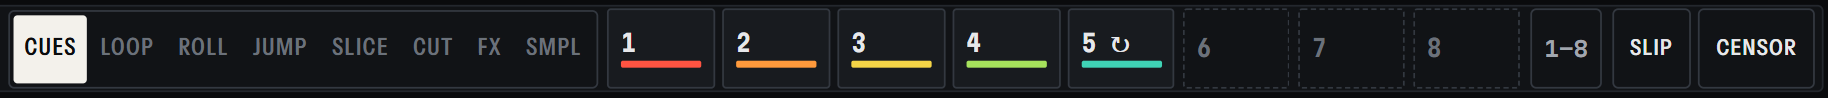
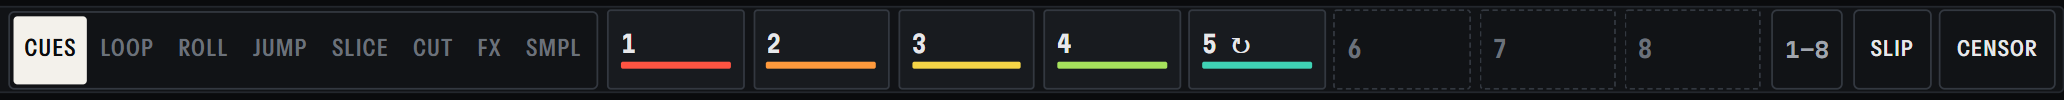
website: screenshots taken again at twice the resolution, served sharp and large, and a deck's rail and its effects shown close up

diff --git a/website/src/i18n/landing.ts b/website/src/i18n/landing.ts
@@ -43,6 +43,8 @@ const en = {
 		kicker: 'Performance',
 		title: 'Everything at hand, nothing in the way.',
 		body: 'The pads, the loops and the effects a set calls for, every one of them on the keyboard, on a controller and in the command palette.',
+		deckAlt: 'A deck: its track, time, tempo and key, the waveform with its hot cues and beat grid, CUE, PLAY, the stem knobs, SYNC and the hot cue pads',
+		fxAlt: 'The effect pads of a deck: eight effects, three slots, the chain switch and the MIX, AMOUNT and TONE knobs',
 		items: [
 			['16 hot cues', 'on two pages of pads, coloured'],
 			['Loops and rolls', 'a size per deck, in and out by hand'],
@@ -162,6 +164,8 @@ const fr: typeof en = {
 		kicker: 'Performance',
 		title: 'Tout sous la main, rien dans les pattes.',
 		body: 'Les pads, les boucles et les effets qu’un set demande, chacun au clavier, sur un contrôleur et dans la palette de commandes.',
+		deckAlt: 'Un deck : son morceau, le temps, le tempo et la tonalité, la forme d’onde avec ses hot cues et sa grille, CUE, PLAY, les boutons des stems, SYNC et les pads de hot cues',
+		fxAlt: 'Les pads d’effets d’un deck : huit effets, trois slots, l’interrupteur de la chaîne et les boutons MIX, AMOUNT et TONE',
 		items: [
 			['16 hot cues', 'sur deux pages de pads, en couleur'],
 			['Boucles et rolls', 'une taille par deck, entrée et sortie à la main'],

diff --git a/website/src/styles/landing.css b/website/src/styles/landing.css
@@ -258,6 +258,12 @@ kbd {
 .frame.small {
 	border-radius: 8px;
 }
+/* a strip of the interface: a deck's rail, its effects */
+.frame.strip {
+	margin-top: 40px;
+	border-radius: 8px;
+	box-shadow: 0 24px 70px rgb(0 0 0 / 0.55);
+}
 
 /* Sections */
 main > section {
